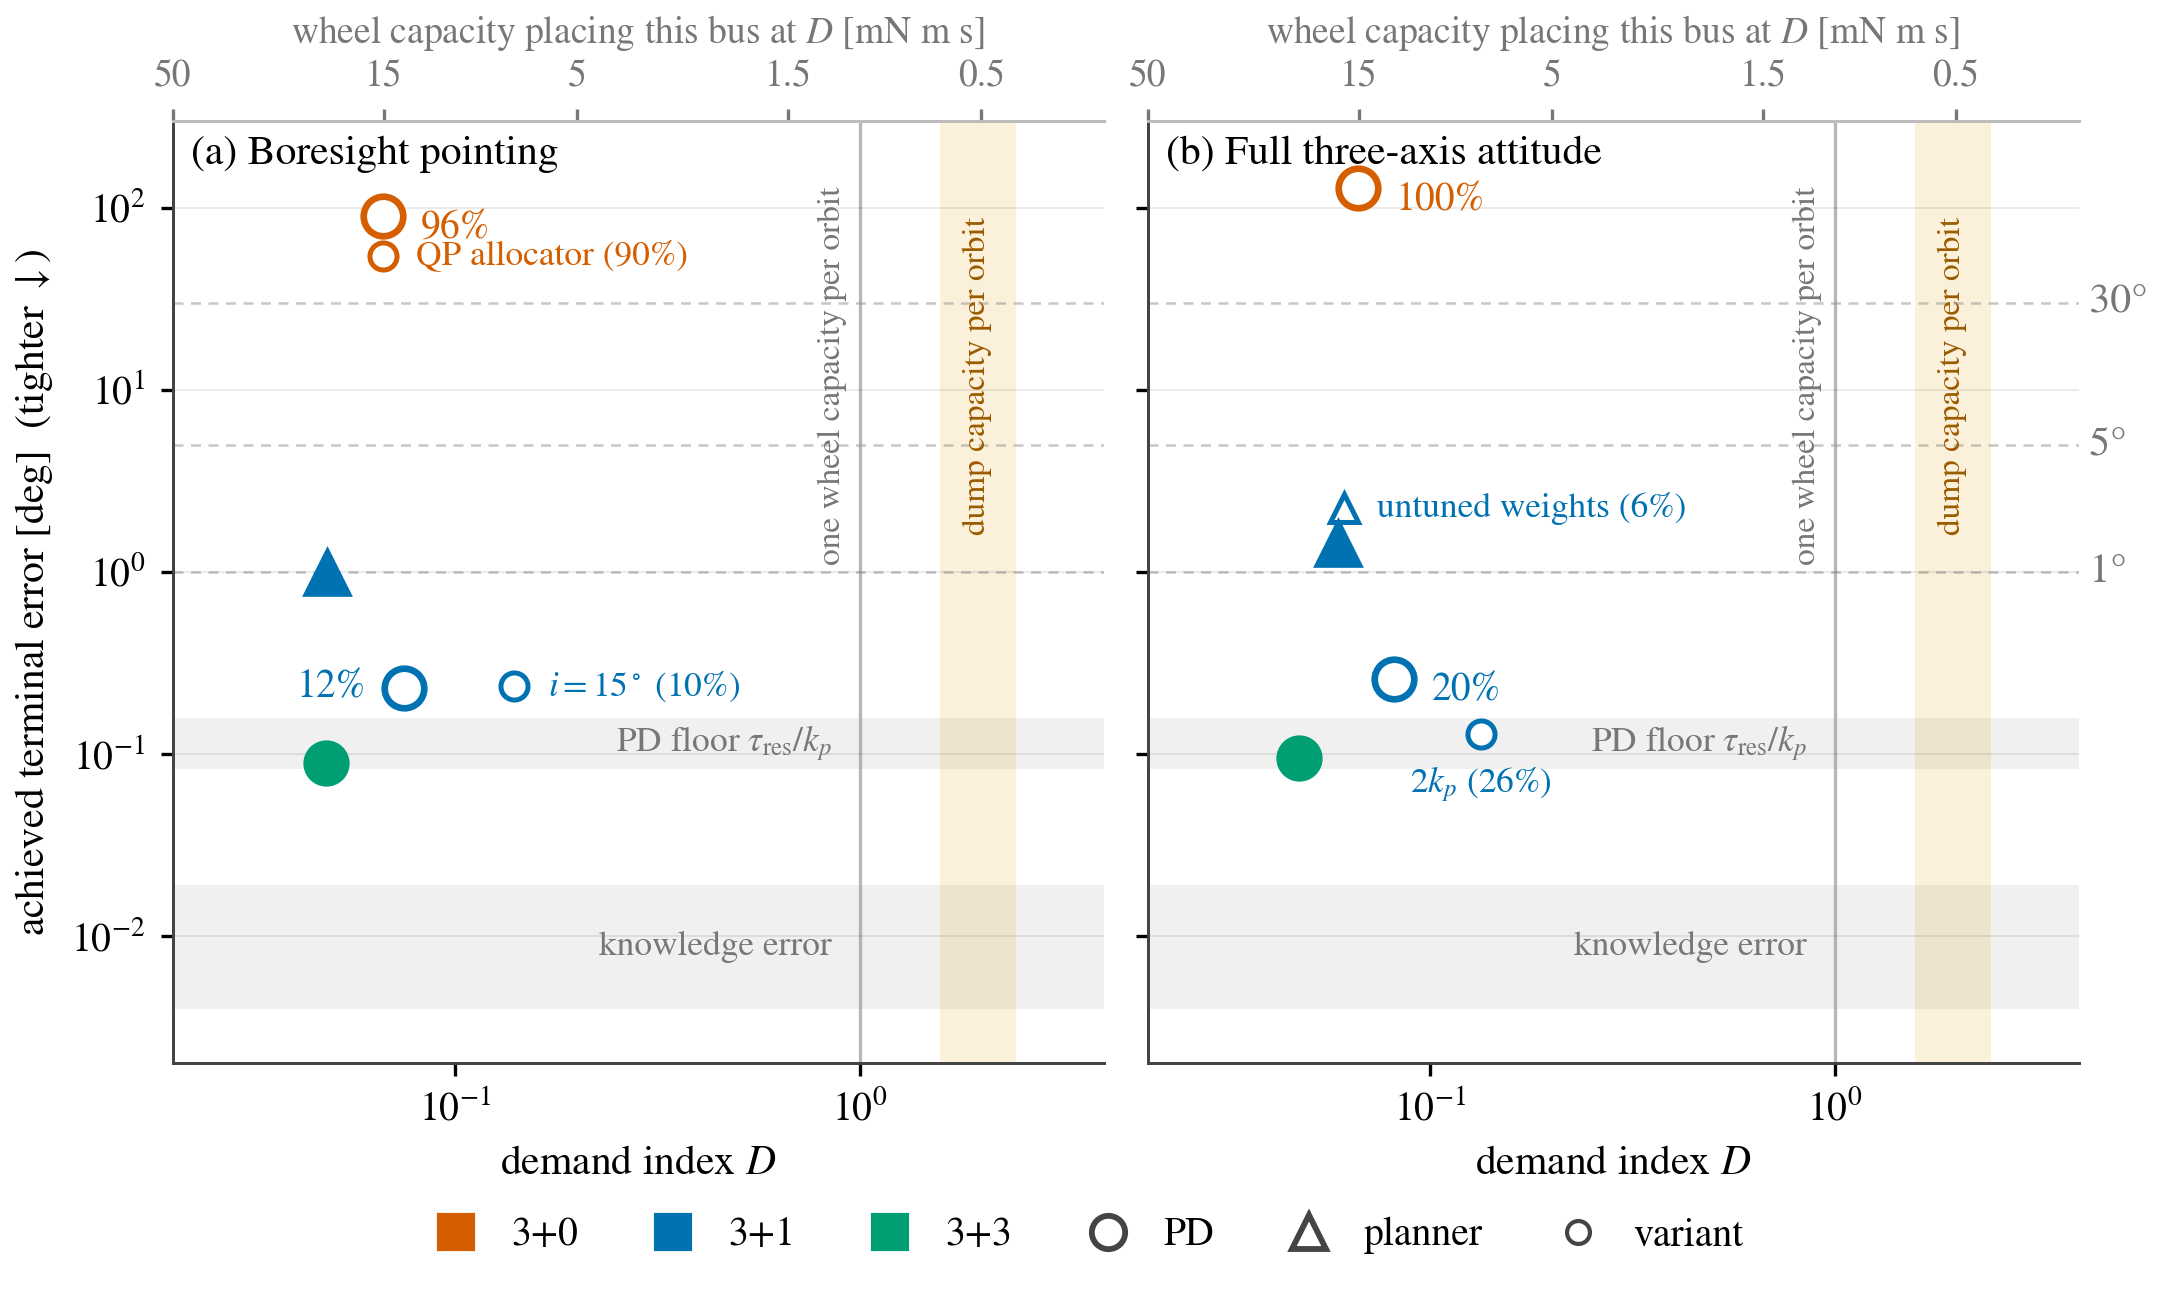
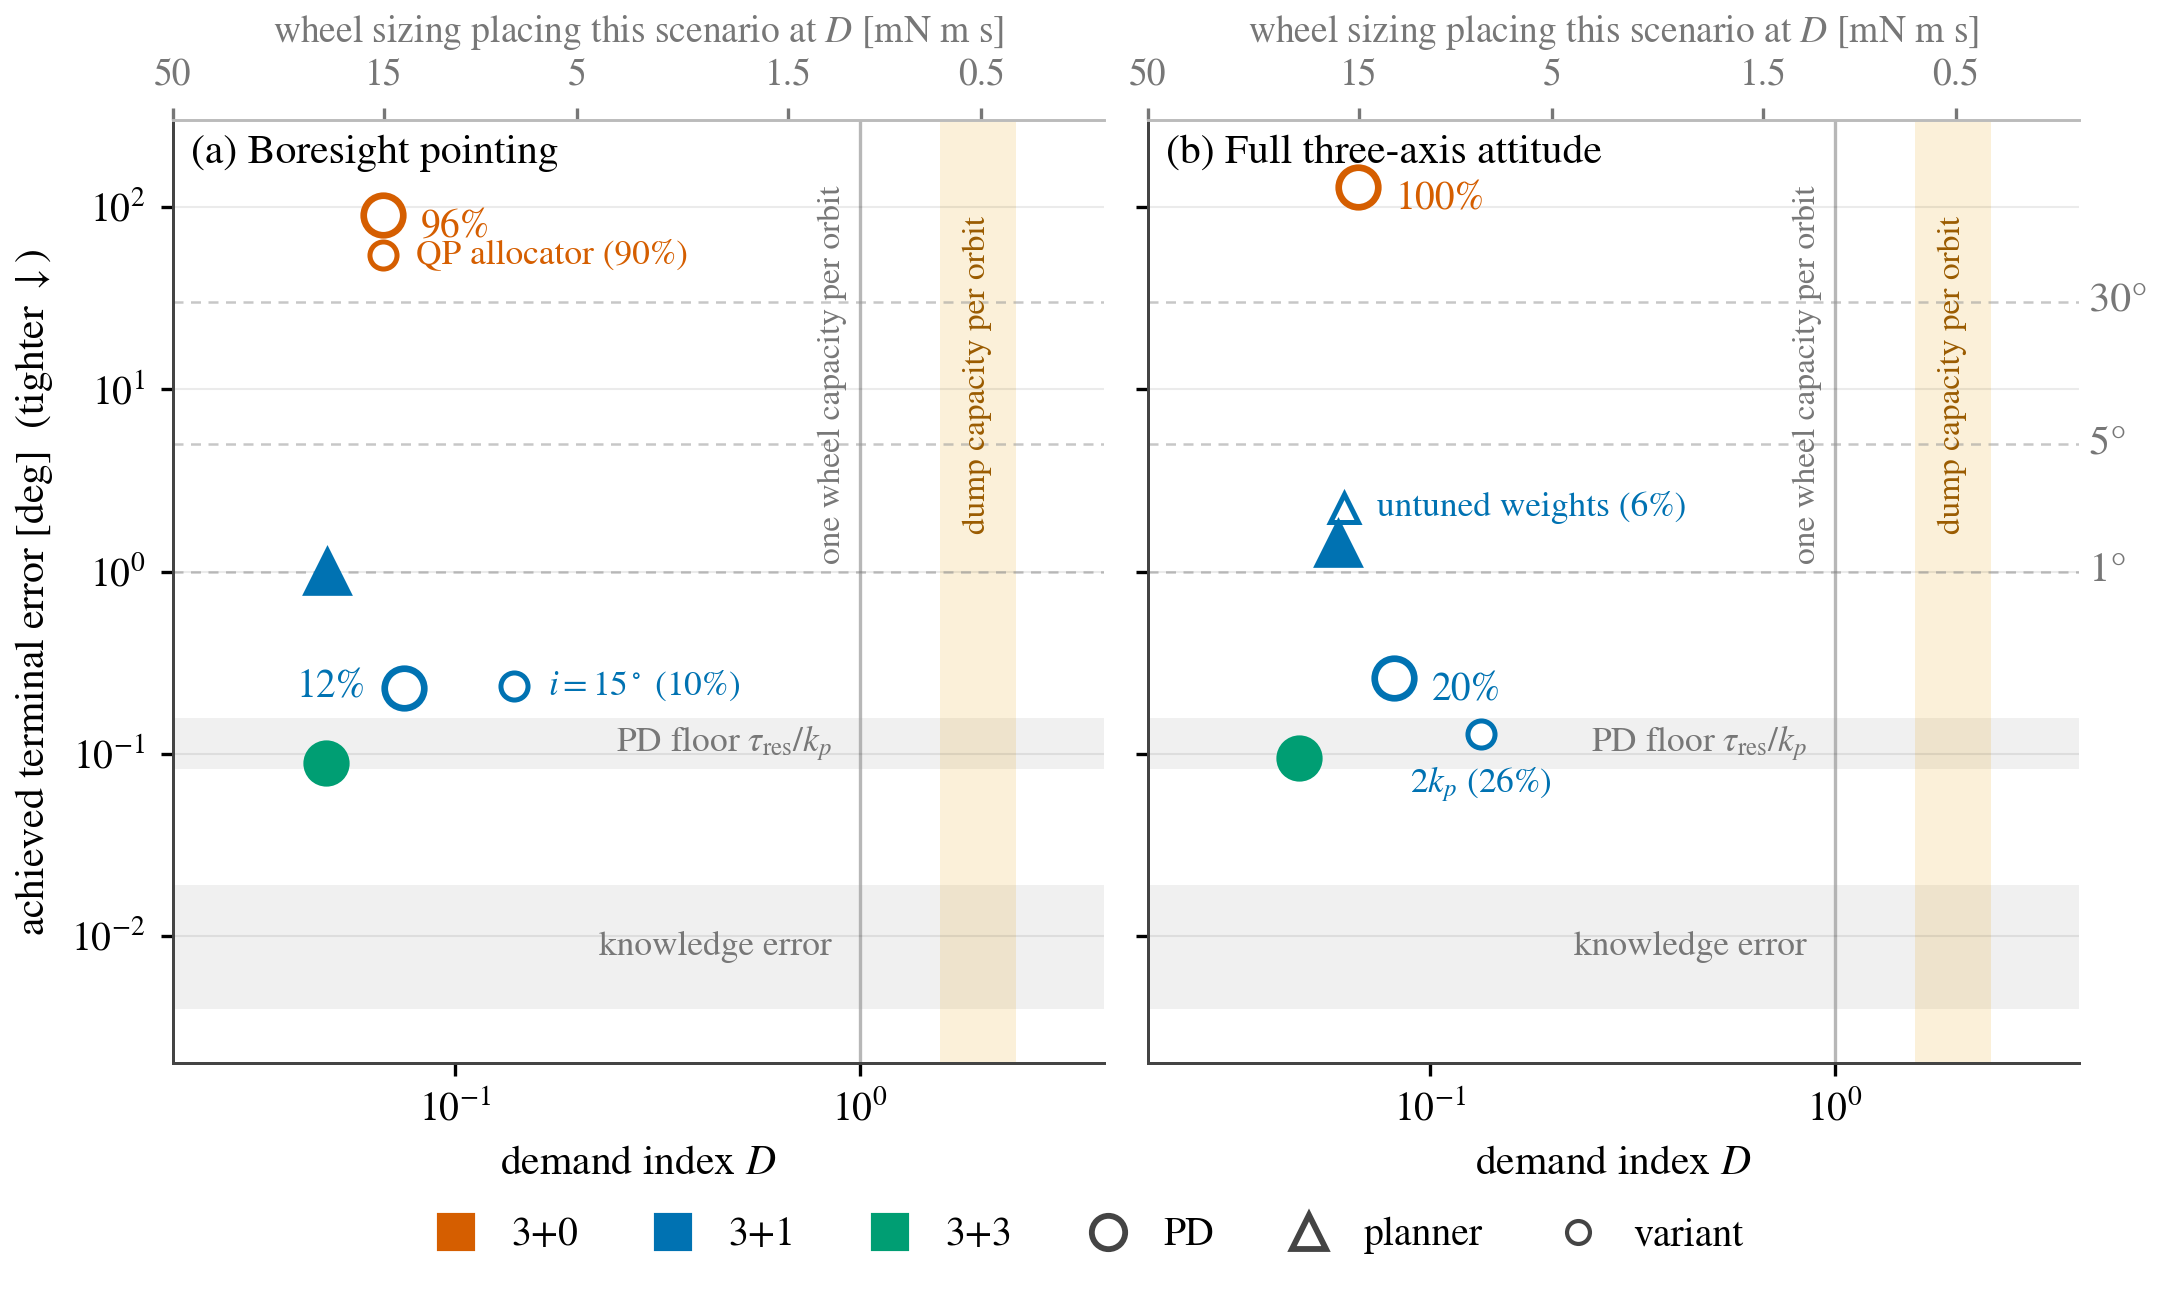
fig(IAC): v2 top-axis label 'wheel sizing placing this scenario at D'

diff --git a/papers/IAC_1RW/fig3_envelope_v2.py b/papers/IAC_1RW/fig3_envelope_v2.py
@@ -139,7 +139,7 @@ def main():
         top.tick_params(labelsize=9, colors=GREY, length=3)
         top.spines["top"].set_visible(True); top.spines["top"].set_color("#BBBBBB")
         top.spines["right"].set_visible(False)
-        top.set_xlabel("wheel capacity placing this bus at $D$ [mN m s]", fontsize=9, color=GREY, labelpad=4)
+        top.set_xlabel("wheel sizing placing this scenario at $D$ [mN m s]", fontsize=9, color=GREY, labelpad=4)
     axes[0].set_ylabel("achieved terminal error [deg]  (tighter $\\downarrow$)")
 
     from matplotlib.lines import Line2D
